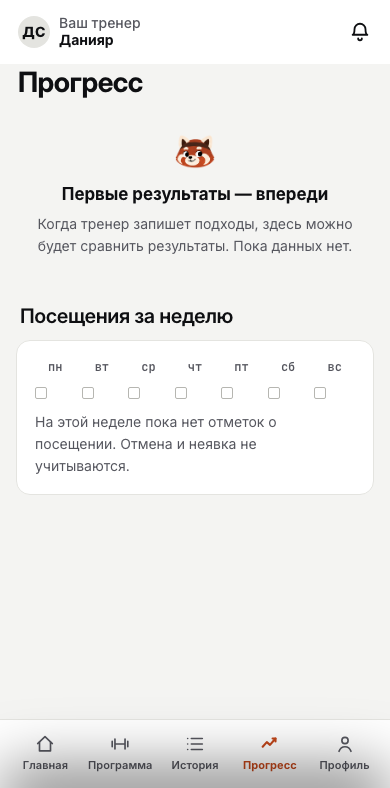
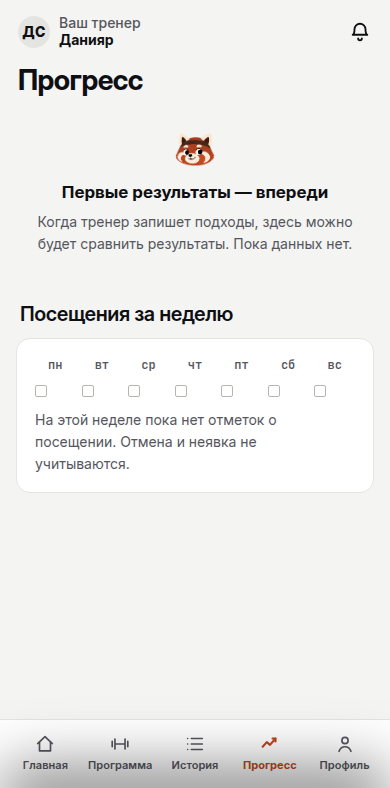
prototype-fresh: fix issues found reviewing the Instrument pass
- 44px targets for topbar back, library filters and favourite star;
  verify.cjs now measures them
- client card sections are real tabs with an underline, not a 3+2 grid
- billing: correct plurals, grouped digits
- group session no longer shows "Подтверждено" next to pending replies
- journal header and "Дальше" hold one line at 320px with 20px text
- trainer profile: lists first, "Мои упражнения" as a row, segmented
  theme switch instead of a fieldset
- inbox transfers expand with a chevron instead of an orange "+"
- client header without a white strip above the title
- drop stale root audit.md, refresh handoff and review snapshots

Claude-Session: https://claude.ai/code/session_01LLg2s5nbEmXHE69SKPk55t

diff --git a/prototype-fresh/js/screens/trainer.js b/prototype-fresh/js/screens/trainer.js
@@ -14,6 +14,7 @@ const Trainer = (() => {
     return t(end) - t(start);
   };
   const dur = (s) => (mins(s.start, s.end) === 60 ? '60 мин' : mins(s.start, s.end) + ' мин');
+  const remainingLessons = (n) => `осталось ${n} ${DB.plural(n, ['занятие', 'занятия', 'занятий'])}`;
 
   /* ── Session row ─────────────────────────────────────────────────────────── */
 
@@ -309,7 +310,9 @@ const Trainer = (() => {
           <span class="today-entry__name-right">${pastHint}${Icon.get('chevR', { size: 16, style: 'color:var(--ter)' })}</span></button>`;
 
     let statusRow = '';
-    if (expanded) {
+    if (expanded && group && !cancelled) {
+      statusRow = '';
+    } else if (expanded) {
       statusRow = `<div class="today-entry__status">${agreementPill(s)}</div>`;
     } else if (cancelled) {
       statusRow = `<div class="today-entry__status">${Pill('Отменено', { tone: 'neutral', dot: false })}</div>`;
@@ -600,7 +603,7 @@ const Trainer = (() => {
         ${Card(DB.clients.map((x, i, arr) => Row({
           lead: Lead(x.initials, { tone: c.clientIds.includes(x.id) ? 'ink' : '', size: 'sm' }),
           title: x.name,
-          meta: x.program ? esc(x.program) + (x.plan ? ` · осталось ${x.plan.remaining}` : '') : 'Без программы · выберите на следующем шаге',
+          meta: x.program ? esc(x.program) + (x.plan ? ` · ${remainingLessons(x.plan.remaining)}` : '') : 'Без программы · выберите на следующем шаге',
           right: c.clientIds.includes(x.id) ? Icon.get('check', { size: 20, sw: 2.6 }) : '',
           a: 'ns.toggle', args: { id: x.id }, last: i === arr.length - 1,
         })).join(''), { rows: true })}
@@ -788,8 +791,8 @@ const Trainer = (() => {
       </div>
     </div>`;
 
-    const chips = `<div class="chips client-tabs" style="padding:18px 16px 10px">
-      ${tabs.map(t => `<span class="chip chip--soft ${tab === t ? 'is-on' : ''}" ${act('client.tab', { tab: t })} role="button" tabindex="0">${tabLabels[t]}</span>`).join('')}
+    const chips = `<div class="chips client-tabs" role="tablist" aria-label="Разделы клиента" style="padding:18px 16px 10px">
+      ${tabs.map(t => `<button type="button" class="chip chip--soft ${tab === t ? 'is-on' : ''}" ${act('client.tab', { tab: t })} role="tab" aria-selected="${tab === t}">${tabLabels[t]}</button>`).join('')}
     </div>`;
 
     let content = '';
@@ -1041,7 +1044,7 @@ const Trainer = (() => {
         const after = visible.slice(position).find(e => !e.skipped && Workout.openSets(e, valuesOf(e)).length) || visible.find(e => e !== focusEx && !e.skipped && Workout.openSets(e, valuesOf(e)).length);
         const complete = !focusEx.skipped && si < 0;
         focusCard = `<section class="wfocus excard${focusEx.skipped ? ' excard--skipped' : ''}" aria-label="Текущее упражнение">
-          <div class="wfocus__eyebrow"><span>Сейчас · ${position} из ${visible.length}</span>${after ? `<button class="wfocus__skipto" ${act('workout.focus', { cid: active, ex: after.id })}>Дальше: ${esc(after.name)} ${Icon.get('chevR', { size: 14, sw: 2.4 })}</button>` : ''}</div>
+          <div class="wfocus__eyebrow"><span>Сейчас · ${position} из ${visible.length}</span>${after ? `<button class="wfocus__skipto" ${act('workout.focus', { cid: active, ex: after.id })}><span>Дальше: ${esc(after.name)}</span>${Icon.get('chevR', { size: 14, sw: 2.4 })}</button>` : ''}</div>
           <div class="excard__head">
             <div class="excard__title"><h2 class="excard__name wfocus__name" tabindex="-1">${esc(focusEx.name)}</h2>${parts.tag}</div>
             <div class="excard__goal num">${parts.goal}</div>
@@ -1172,7 +1175,7 @@ const Trainer = (() => {
   /* ── Пакеты и оплаты ──────────────────────────────────────────────────────── */
 
   function paymentTable() {
-    return `<div class="payment-table"><table><caption class="sr-only">Активные покупки, суммы в тенге</caption><thead><tr><th>Стоимость, ₸</th><th>Получено, ₸</th><th>К оплате, ₸</th></tr></thead>${Store.get().billing.purchases.map(p => `<tbody><tr><th colspan="3"><button ${act('sheet.open', {id:'pay',cid:p.clientId,due:p.due})} aria-label="Записать оплату: ${esc(client(p.clientId).name)}, ${esc(p.title)}"><span><strong>${esc(client(p.clientId).short)}</strong><small>${esc(p.title)} · ${p.units - p.used} занятий осталось</small></span>${Icon.get('plus', {size:18})}</button></th></tr><tr><td class="num">${DB.fmtNumber(p.price)}</td><td class="num">${DB.fmtNumber(p.paid)}</td><td class="num">${DB.fmtNumber(p.due)}</td></tr><tr><td colspan="3">${Meter(p.paid, p.price)}</td></tr></tbody>`).join('')}</table></div>`;
+    return `<div class="payment-table"><table><caption class="sr-only">Активные покупки, суммы в тенге</caption><thead><tr><th>Стоимость, ₸</th><th>Получено, ₸</th><th>К оплате, ₸</th></tr></thead>${Store.get().billing.purchases.map(p => `<tbody><tr><th colspan="3"><button ${act('sheet.open', {id:'pay',cid:p.clientId,due:p.due})} aria-label="Записать оплату: ${esc(client(p.clientId).name)}, ${esc(p.title)}"><span><strong>${esc(client(p.clientId).short)}</strong><small>${esc(p.title)} · ${remainingLessons(p.units - p.used)}</small></span>${Icon.get('plus', {size:18})}</button></th></tr><tr><td class="num">${DB.fmtGroup(p.price)}</td><td class="num">${DB.fmtGroup(p.paid)}</td><td class="num">${DB.fmtGroup(p.due)}</td></tr><tr><td colspan="3">${Meter(p.paid, p.price)}</td></tr></tbody>`).join('')}</table></div>`;
   }
 
   function billing() {
@@ -1266,23 +1269,23 @@ const Trainer = (() => {
             <div style="font-size:0.875rem;font-weight:500;color:var(--sec);margin-top:2px">Независимый тренер</div>
           </div>
         </div>
-        ${UI.CalmSwitch()}${UI.ThemeChoice()}
-        ${Store.field.enabled ? `<p class="client-footnote">Полевой режим: события сохраняются только в этом браузере.</p>${Btn('Выгрузить полевой журнал', {kind:'soft',a:'field.export'})}${Btn('Очистить полевой журнал', {kind:'ghost',a:'field.clear'})}` : ''}
-        ${Btn('Мои упражнения', { kind: 'soft', a: 'sheet.open', args: { id: 'myExercises' } })}
         ${Stats([[String(todayCount), 'занятий сегодня'], [String(pending), 'ждут ответа'], [String(count), 'клиентов в базе']])}
         <div style="height:16px"></div>
         ${Card([
           ['layers', 'Библиотека и шаблоны', 't-library'],
+          ['dumbbell', 'Мои упражнения', null, 'myExercises'],
           ['wallet', 'Пакеты и оплаты', 't-billing'],
-          ['bell', 'Уведомления', null, 'sheet:notifications'],
-        ].map(([icon, title, screen, kind], i, arr) => Row({
+          ['bell', 'Уведомления', null, 'notifications'],
+        ].map(([icon, title, screen, sheet], i, arr) => Row({
           lead: Lead(icon, { size: 'sm', icon: true }),
           title,
-          meta: title === 'Настройки' ? 'Пока недоступны' : '',
-          right: title === 'Настройки' ? '' : Icon.get('chevR', { size: 20, style: 'color:var(--ter)' }),
-          a: title === 'Настройки' ? null : screen ? 'nav.go' : 'sheet.open', args: screen ? { id: screen } : { id: 'notifications' },
+          right: Icon.get('chevR', { size: 20, style: 'color:var(--ter)' }),
+          a: screen ? 'nav.go' : 'sheet.open', args: { id: screen || sheet },
           last: i === arr.length - 1,
         })).join(''), { rows: true })}
+        <div style="height:16px"></div>
+        ${UI.CalmSwitch()}${UI.ThemeChoice()}
+        ${Store.field.enabled ? `<p class="client-footnote">Полевой режим: события сохраняются только в этом браузере.</p>${Btn('Выгрузить полевой журнал', {kind:'soft',a:'field.export'})}${Btn('Очистить полевой журнал', {kind:'ghost',a:'field.clear'})}` : ''}
         <div style="margin-top:16px">${Notice('Это прототип. Данные вымышленные, действия не изменяют реальные записи.', { tone: 'info', icon: 'info' })}</div>
       </div>
       ${TabBar('trainer', 't-profile')}

diff --git a/prototype-fresh/css/instrument.css b/prototype-fresh/css/instrument.css
@@ -164,6 +164,7 @@
   .hero-card { background: var(--surface); }
   .hero-card__meta { padding-right: 0; }
   .client-hello > p { display: none; }
+  .client-topbar { background: var(--canvas); border-bottom: 0; padding-bottom: 8px; }
   .today-entry.is-expanded::before { display: none; }
   .today-entry__summary { font-size: .75rem; line-height: 1rem; margin-top: 8px; min-height: 24px; }
   .today-entry__status { margin-top: 4px; }
@@ -172,8 +173,11 @@
   .buddy__face { background: none; box-shadow: none; }
   .transfer-card { border: 1px solid var(--line); border-radius: var(--r-m); background: var(--surface); margin-bottom: 12px; }
   .transfer-card summary { cursor: pointer; min-height: 44px; padding: 16px; display: grid; gap: 8px; position: relative; }
-  .transfer-card summary::after { content: '+'; position: absolute; right: 16px; top: 14px; color: var(--accent-ink); }
-  .transfer-card[open] summary::after { content: '−'; }
+  .transfer-card summary { list-style: none; }
+  .transfer-card summary::-webkit-details-marker { display: none; }
+  .transfer-card summary::after { content: ''; position: absolute; right: 20px; top: 22px; width: 8px; height: 8px; border-right: 2px solid var(--sec); border-bottom: 2px solid var(--sec); transform: rotate(45deg); transition: transform var(--t-fast) var(--ease-out); }
+  .transfer-card[open] summary::after { transform: translateY(4px) rotate(-135deg); }
+  .transfer-card summary:focus-visible { outline: 2px solid var(--signal); outline-offset: -2px; border-radius: var(--r-m); }
   .transfer-card summary strong { padding-right: 24px; font-weight: 600; }
   .transfer-card summary .num { font-size: .75rem; color: var(--sec); }
   .transfer-card summary small { font-size: .75rem; color: var(--sec); }
@@ -227,16 +231,23 @@
 :root[data-visual="instrument"] {
   .lib-groups button.is-on { background: var(--signal-soft); color: var(--accent-ink); border-color: var(--signal); }
   .builder-check.is-on, .wrow.is-now .wrow__mark { color: var(--signal-ink); }
-  .client-tabs { flex-wrap: wrap; gap: 8px; }
-  .client-tabs .chip { flex: 1 0 auto; justify-content: center; }
+  .client-tabs { flex-wrap: nowrap; gap: 0; overflow-x: auto; margin: 0 16px 12px; padding: 0 !important; border-bottom: 1px solid var(--line); scrollbar-width: none; mask-image: linear-gradient(90deg, #000 calc(100% - 24px), transparent); }
+  .client-tabs::-webkit-scrollbar { display: none; }
+  .client-tabs .chip { flex: 0 0 auto; min-height: 44px; padding: 0 12px; background: transparent; border: 0; border-radius: 0; color: var(--sec); font-weight: 500; box-shadow: inset 0 -2px 0 transparent; }
+  .client-tabs .chip.is-on { color: var(--ink); background: transparent; box-shadow: inset 0 -2px 0 var(--signal); }
+  .client-tabs .chip:focus-visible { outline: 2px solid var(--signal); outline-offset: -2px; }
   .workspace-client > .screen > .topbar { display: none; }
   .workspace-day .today-head { padding-top: 24px; }
   .wcomposer__head { display: grid; grid-template-columns: minmax(0, 1fr) auto; gap: 4px 8px; }
   .wcomposer__head b { grid-column: 1; }
   .wcomposer__head > span { grid-column: 1; overflow-wrap: normal; }
   .wcomposer__more { grid-column: 2; grid-row: 1 / 3; }
-  .wfocus__eyebrow { flex-wrap: wrap; gap: 8px; }
-  .wfocus__skipto { white-space: normal; overflow: visible; text-overflow: clip; text-align: left; }
+  .wfocus__eyebrow { flex-wrap: wrap; gap: 0 8px; }
+  .wfocus__skipto { max-width: 100%; min-width: 0; white-space: nowrap; }
+  .wfocus__skipto > span { min-width: 0; overflow: hidden; text-overflow: ellipsis; }
+  .session-journal .topbar { flex-wrap: nowrap; gap: 4px; }
+  .session-journal .topbar__side { flex: 0 0 auto; }
+  .session-journal .log-screen-status { flex: 1 1 0; min-width: 0; overflow: hidden; white-space: nowrap; text-overflow: ellipsis; }
   .log-actions { display: grid; grid-template-columns: minmax(0, 1fr) minmax(0, 1fr); container-type: inline-size; }
   .log-voice { min-width: 0; width: 100%; }
   .log-voice__txt { min-width: 0; overflow-wrap: normal; }

diff --git a/prototype-fresh/css/audit-fixes.css b/prototype-fresh/css/audit-fixes.css
@@ -18,10 +18,11 @@
 .switch-track i { display: block; width: 20px; height: 20px; border-radius: 50%; background: var(--surface); transition: transform 120ms; }
 .preference-switch[aria-checked="true"] .switch-track { background: var(--accent); }
 .preference-switch[aria-checked="true"] .switch-track i { transform: translateX(18px); }
-.theme-choice { border: 1px solid var(--border); border-radius: var(--r-field); padding: 12px; margin: 0 0 16px; display: flex; flex-wrap: wrap; gap: 8px; }
-.theme-choice legend { color: var(--sec); padding: 0 4px; }
-.theme-choice button { min-height: 44px; padding: 8px 12px; border-radius: 8px; background: var(--sunken); color: var(--ink); }
-.theme-choice button[aria-pressed="true"] { box-shadow: inset 0 0 0 2px var(--accent); }
+.theme-choice { min-height: 56px; padding: 8px 8px 8px 16px; margin: 0 0 12px; display: flex; flex-wrap: wrap; align-items: center; justify-content: space-between; gap: 8px 16px; background: var(--surface); border: 1px solid var(--border); border-radius: var(--r-field); }
+.theme-choice__label { color: var(--ink); }
+.theme-choice__seg { display: flex; padding: 2px; gap: 2px; background: var(--sunken); border-radius: 10px; }
+.theme-choice button { min-height: 44px; padding: 0 12px; border-radius: 8px; color: var(--sec); font-size: .875rem; font-weight: 500; }
+.theme-choice button[aria-pressed="true"] { background: var(--surface); color: var(--ink); box-shadow: inset 0 0 0 1px var(--border-button); }
 .transfer-dates { display: grid; grid-template-columns: minmax(0, 1fr) 18px minmax(0, 1fr); gap: 8px; align-items: center; padding: 12px 0; margin: 0; }
 .transfer-dates dt { font-size: .875rem; color: var(--sec); }
 .transfer-dates dd { margin: 4px 0 0; display: grid; gap: 4px; font-size: .875rem; }
@@ -35,6 +36,9 @@
 @media (max-width: 600px) { :root[data-present] .stage { padding: 0; } }
 @media (prefers-reduced-motion: reduce) { .switch-track, .switch-track i { transition: none; } }
 .client-tabs { flex-wrap: wrap; }
+.topbar__btn { width: 44px; height: 44px; flex-shrink: 0; }
+.lib-groups button, .lib-filters > button, .lib-equipment, .lib-equipment select { min-height: 44px; }
+.lib-favorite { width: 44px; flex-basis: 44px; }
 .lib-groups { scrollbar-width: thin; scrollbar-color: var(--sec) transparent; }
 .lib-groups::-webkit-scrollbar { display: block; height: 3px; }
 .lib-groups::-webkit-scrollbar-thumb { background: var(--sec); border-radius: 8px; }

diff --git a/prototype-fresh/js/ui.js b/prototype-fresh/js/ui.js
@@ -208,7 +208,7 @@ const UI = (() => {
   const isInstrument = () => typeof document !== 'undefined' && document.documentElement?.dataset?.visual === 'instrument';
   const Segments = (done, total) => total > 0 ? `<span class="segments" role="img" aria-label="Записано ${done} из ${total} подходов">${Array.from({ length: Math.min(total, 60) }, (_, i) => `<i class="${i < done ? 'is-done' : i === done ? 'is-current' : ''}"></i>`).join('')}</span>` : '';
   const CalmSwitch = () => `<button class="preference-switch" role="switch" aria-checked="${Store.preferences.calm()}" ${act('calm.toggle')}><span>Спокойный интерфейс</span><span class="switch-track" aria-hidden="true"><i></i></span></button>`;
-  const ThemeChoice = () => isInstrument() ? `<fieldset class="theme-choice"><legend>Тема интерфейса</legend>${[['auto', 'По роли'], ['dark', 'Тёмная'], ['light', 'Светлая']].map(([id, label]) => `<button data-theme-choice="${id}" aria-pressed="${(document.documentElement.dataset.themeChoice || 'auto') === id}">${label}</button>`).join('')}</fieldset>` : '';
+  const ThemeChoice = () => isInstrument() ? `<div class="theme-choice" role="group" aria-labelledby="theme-choice-label"><span id="theme-choice-label" class="theme-choice__label">Тема</span><span class="theme-choice__seg">${[['auto', 'По роли'], ['dark', 'Тёмная'], ['light', 'Светлая']].map(([id, label]) => `<button type="button" data-theme-choice="${id}" aria-pressed="${(document.documentElement.dataset.themeChoice || 'auto') === id}">${label}</button>`).join('')}</span></div>` : '';
   const TransferDates = r => {
     const to = r.counter || r.to;
     return `<dl class="transfer-dates"><div><dt>Действует</dt><dd><span>${DB.fmtDate(r.from.date)}</span><strong class="num">${r.from.start}–${r.from.end}</strong></dd></div><span aria-hidden="true">${Icon.get('arrowRight', { size: 18 })}</span><div><dt>Предложено</dt><dd><span>${DB.fmtDate(to.date)}</span><strong class="num">${to.start}–${to.end}</strong></dd></div></dl>`;

diff --git a/prototype-fresh/js/data.js b/prototype-fresh/js/data.js
@@ -670,7 +670,8 @@ const DB = (() => {
     },
     // Display only: keep numeric storage and the user's unfinished input untouched.
     fmtNumber(n) { return typeof n === 'number' && Number.isFinite(n) ? new Intl.NumberFormat('ru-RU', { maximumFractionDigits: 20, useGrouping: false }).format(n) : '—'; },
-    fmtMoney(n) { return String(n).replace(/\B(?=(\d{3})+(?!\d))/g, '\u2009') + ' ₸'; },
+    fmtGroup(n) { return String(n).replace(/\B(?=(\d{3})+(?!\d))/g, '\u2009'); },
+    fmtMoney(n) { return DB.fmtGroup(n) + ' ₸'; },
     addMinutes(t, m) {
       const [h, mm] = t.split(':').map(Number);
       const total = (h * 60 + mm + m + 1440) % 1440;

diff --git a/prototype-fresh/CLAUDE-VISUAL-AUDIT-HANDOFF.md b/prototype-fresh/CLAUDE-VISUAL-AUDIT-HANDOFF.md
@@ -1,12 +1,12 @@
 # Handoff для Claude: визуальный аудит и «Инструмент»
 
-28 сентября 2026. Репозиторий `trainerApp`, рабочая папка — `prototype-fresh/`.
+28 сентября 2026. Репозиторий `panda-trainer`, рабочая папка — `prototype-fresh/`.
 
 ## Запрос и текущее состояние
 
 Пользователь попросил выполнить [VISUAL-AUDIT.md](VISUAL-AUDIT.md), затем написать этот handoff. Веб-реализация направления «Инструмент» доступна через `?visual=instrument`. Это дополнительный вариант оформления; исходный и `firm` сохранены.
 
-**Изменения не закоммичены.** В начале последнего прохода в рабочем дереве уже находилась большая часть реализации аудита. Codex сохранил её, проверил и дополнил двумя недостающими элементами: индикатором шагов записи и счётчиком остатка пакета с полосой. Не приписывай весь накопленный diff последнему проходу и не откатывай его как посторонние изменения.
+Работа Codex влита в `main`. После неё Claude исправил найденное при проверке: см. раздел «Правки после проверки» в конце.
 
 Подробный отчёт: [review/instrument/README.md](review/instrument/README.md). Исходный аудит остаётся спецификацией направления, а не доказательством выполнения каждого пункта. Готового Rive-рига и проверки в реальном зале пока нет.
 
@@ -99,3 +99,17 @@ graft build
 - Тестирование трёх ключевых экранов с тренером в реальном зале **не проводилось**. Нужна оценка тёмной темы, мелкой телеметрии и читаемости на настоящем устройстве.
 
 Если пользователь попросит продолжить, исходи из этой работающей реализации и конкретной обратной связи. Не начинай новый редизайн и не меняй выбранного маскота без нового запроса. Перед любыми правками снова проверь `git status` и текущий diff: в репозитории могут работать другие агенты.
+
+## Правки после проверки
+
+28 сентября 2026, Claude, после прохода по снимкам и замеров кнопок:
+
+- Кнопки «Назад» (`.topbar__btn`), фильтры библиотеки и звёздочка «В избранное» доведены до 44 px. `verify.cjs` их не видел: он проверяет только `.topbar__back` и `.icon-button`.
+- Разделы карточки клиента — настоящие вкладки (`role="tablist"`, `aria-selected`) с подчёркиванием и горизонтальной прокруткой вместо сетки 3 + 2.
+- «Пакеты и оплаты»: склонение «осталось 1 занятие / 2 занятия / 5 занятий», суммы с разделителем разрядов (`DB.fmtGroup`).
+- Мини-группа в ленте «Сегодня» больше не показывает «Подтверждено» рядом с «1 ждёт · 1 отменил».
+- Журнал при крупном шрифте на 320 px: заголовок шапки обрезается многоточием, «…» остаётся в строке, «Дальше: …» не ломается посередине.
+- Профиль тренера: статистика и разделы сверху, «Мои упражнения» — строка списка, выбор темы — сегментированный переключатель вместо рамки `fieldset`.
+- «Входящие»: раскрытие переноса обозначено шевроном, а не оранжевым «+».
+- Клиентская шапка в «Инструменте» без белой полосы над заголовком.
+- Удалён устаревший `audit.md` в корне.
